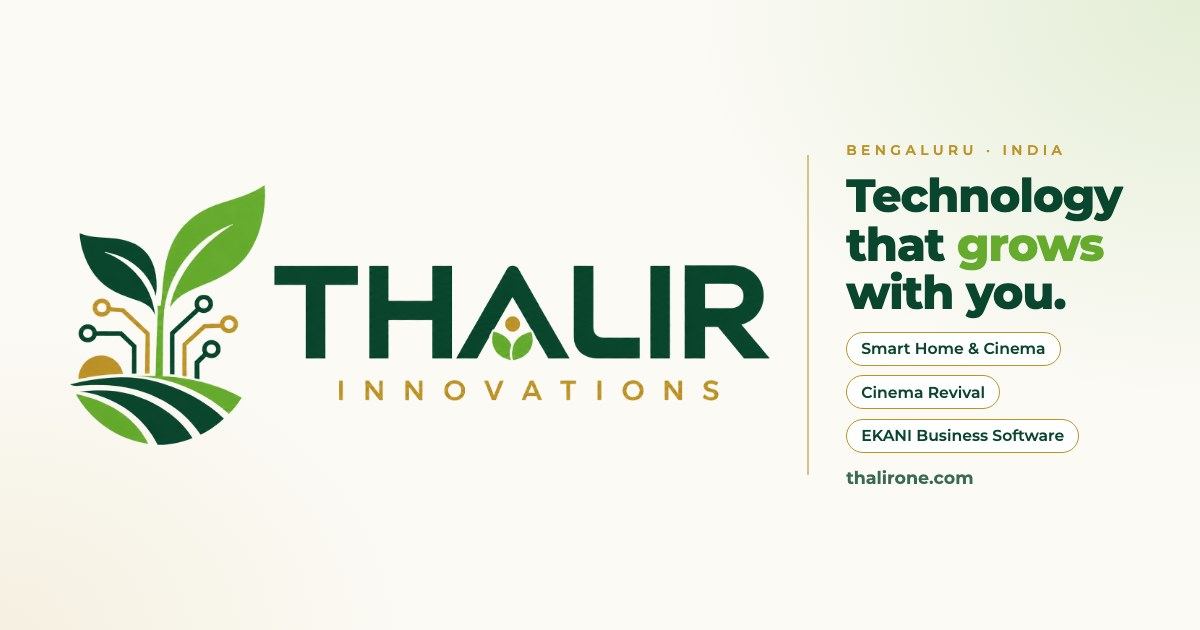
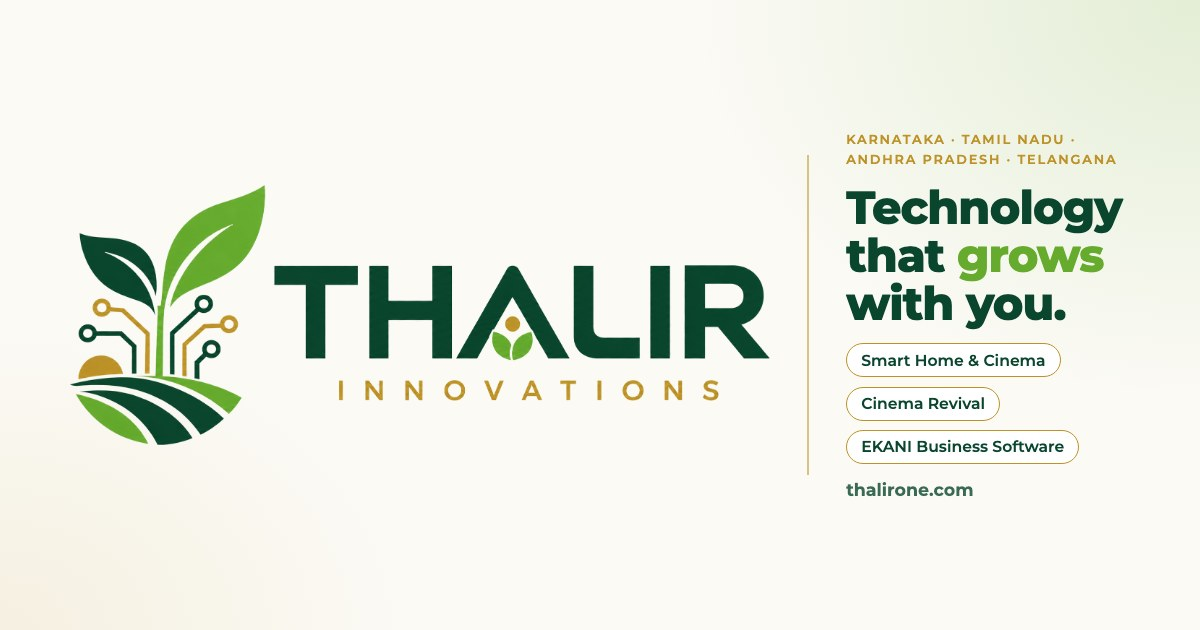
Service area: Karnataka, Tamil Nadu, Andhra Pradesh, Telangana

Changed region(s): [[0.6783, 0.2111, 0.9558, 0.7841]]

diff --git a/docs/cinema-revival/index.html b/docs/cinema-revival/index.html
@@ -3,13 +3,13 @@
 <head>
 <meta charset="utf-8">
 <meta name="viewport" content="width=device-width, initial-scale=1">
-<title>Home Cinema Revival in Bengaluru · Thalir Innovations</title>
-<meta name="description" content="Home Cinema Revival for existing home theatres in Bengaluru: consultation, theatre enhancement, advanced calibration, and help with unwanted smells and eye irritation in the room. Book on WhatsApp.">
+<title>Home Cinema Revival in Karnataka, Tamil Nadu, Andhra Pradesh &amp; Telangana · Thalir Innovations</title>
+<meta name="description" content="Home Cinema Revival for existing home theatres across Karnataka, Tamil Nadu, Andhra Pradesh and Telangana: consultation, theatre enhancement, advanced calibration, and help with unwanted smells and eye irritation in the room. Book on WhatsApp.">
 <link rel="canonical" href="https://thalirone.com/cinema-revival/">
 <meta property="og:type" content="website">
 <meta property="og:site_name" content="Thalir Innovations">
-<meta property="og:title" content="Home Cinema Revival in Bengaluru · Thalir Innovations">
-<meta property="og:description" content="Home Cinema Revival for existing home theatres in Bengaluru: consultation, theatre enhancement, advanced calibration, and help with unwanted smells and eye irritation in the room. Book on WhatsApp.">
+<meta property="og:title" content="Home Cinema Revival in Karnataka, Tamil Nadu, Andhra Pradesh &amp; Telangana · Thalir Innovations">
+<meta property="og:description" content="Home Cinema Revival for existing home theatres across Karnataka, Tamil Nadu, Andhra Pradesh and Telangana: consultation, theatre enhancement, advanced calibration, and help with unwanted smells and eye irritation in the room. Book on WhatsApp.">
 <meta property="og:url" content="https://thalirone.com/cinema-revival/">
 <meta property="og:image" content="https://thalirone.com/assets/img/og.jpg">
 <meta name="twitter:card" content="summary_large_image">
@@ -20,8 +20,8 @@
 <link rel="preconnect" href="https://fonts.googleapis.com">
 <link rel="preconnect" href="https://fonts.gstatic.com" crossorigin>
 <link rel="stylesheet" href="https://fonts.googleapis.com/css2?family=Montserrat:wght@600;700;800&family=Nunito+Sans:opsz,wght@6..12,400;6..12,600;6..12,700&display=swap">
-<link rel="stylesheet" href="/assets/styles.css?v=muf0lbub">
-<script type="application/ld+json">{"@context":"https://schema.org","@type":"Organization","name":"Thalir Innovations","url":"https://thalirone.com","logo":"https://thalirone.com/assets/img/icon-512.png","email":"hello@thalirone.com","contactPoint":[{"@type":"ContactPoint","telephone":"+91-95136-36657","contactType":"sales","areaServed":"IN"}],"address":{"@type":"PostalAddress","addressLocality":"Bengaluru","addressRegion":"Karnataka","addressCountry":"IN"},"sameAs":[]}</script>
+<link rel="stylesheet" href="/assets/styles.css?v=muf0wo4s">
+<script type="application/ld+json">{"@context":"https://schema.org","@type":"Organization","name":"Thalir Innovations","url":"https://thalirone.com","logo":"https://thalirone.com/assets/img/icon-512.png","email":"hello@thalirone.com","contactPoint":[{"@type":"ContactPoint","telephone":"+91-95136-36657","contactType":"sales","areaServed":"IN"}],"address":{"@type":"PostalAddress","addressLocality":"Bengaluru","addressRegion":"Karnataka","addressCountry":"IN"},"areaServed":[{"@type":"State","name":"Karnataka"},{"@type":"State","name":"Tamil Nadu"},{"@type":"State","name":"Andhra Pradesh"},{"@type":"State","name":"Telangana"}],"sameAs":[]}</script>
 </head>
 <body>
 <a class="skip" href="#main">Skip to content</a>
@@ -37,11 +37,11 @@
 <section class="hero page-hero">
   <div class="wrap">
     <div class="hero-copy">
-      <span class="eyebrow">Home Cinema Revival · Bengaluru</span>
+      <span class="eyebrow">Home Cinema Revival</span>
       <h1>Rediscover your home theatre.</h1>
       <p class="lede">Get more from the theatre you already own. We look at the sound, the picture, the controls and how comfortable the room is to sit in, then agree a practical plan to put it right.</p>
       <div class="btns"><a class="btn " href="https://wa.me/919513636657?text=Hi%20Thalir%20Innovations!%20I'd%20like%20a%20Home%20Cinema%20Revival%20consultation.%0AMy%20location%3A%20%0AWhat%20I%20want%20to%20improve%20(sound%20%2F%20picture%20%2F%20controls%20%2F%20room%20comfort)%3A%20" target="_blank" rel="noopener"><svg class="wa" viewBox="0 0 24 24" aria-hidden="true"><path d="M12 2.6a9.4 9.4 0 0 0-8.1 14.2L2.6 21.4l4.7-1.2A9.4 9.4 0 1 0 12 2.6Z" fill="none" stroke="currentColor" stroke-width="1.8" stroke-linejoin="round"/><path d="M8.7 7.7c.3-.6.6-.6.9-.6h.6c.2 0 .4.1.5.4l.8 1.9c.1.2 0 .5-.1.7l-.6.7c-.1.2-.1.4 0 .6.6 1.1 1.5 2 2.6 2.6.2.1.4.1.6 0l.7-.6c.2-.2.5-.2.7-.1l1.9.8c.3.1.4.3.4.5v.6c0 .3 0 .6-.6.9-.6.3-1.9.6-3.6-.2-1.6-.8-3.1-2.3-3.9-3.9-.8-1.7-.5-3-.2-3.6Z" fill="currentColor"/></svg><span>Book a revival consultation</span></a></div>
-      <p class="contact-line"><span>WhatsApp <b>+91 95136 36657</b></span><span>Mon–Sat, 10 am – 7 pm</span></p>
+      <p class="contact-line"><span>WhatsApp <b>+91 95136 36657</b></span><span>Mon–Sat, 10 am – 7 pm</span><span>Serving Karnataka, Tamil Nadu, Andhra Pradesh and Telangana</span></p>
     </div>
     <div class="hero-art"><div class="plate a" style="width:100%"><div class="sheet" role="img" aria-label="Example Cinema Revival checklist: dialogue, bass, picture, controls, room comfort and equipment">
   <div class="sheet-head"><span class="flow-k">Revival checklist</span><span class="sheet-no">Example</span></div>
@@ -60,7 +60,7 @@
 </div></section>
 <section class="band" aria-labelledby="faq-h"><div class="wrap">
   <div class="sec-head"><span class="eyebrow">Questions</span><h2 id="faq-h">What people ask us</h2></div>
-  <div class="faq"><details><summary>Do you only work on theatres you installed?</summary><p>No. Cinema Revival is for any existing home theatre. Tell us what equipment you have and we'll discuss what's possible.</p></details><details><summary>What does advanced calibration include?</summary><p>It's scoped to your system. Share your receiver or processor model, speaker setup and display, and we'll explain the calibration that suits it.</p></details><details><summary>Can you help with smells and eye irritation?</summary><p>We look for causes within the theatre room itself and discuss the work needed to put them right. We don't diagnose health conditions; if irritation continues, please see a doctor.</p></details><details><summary>Do you visit outside Bengaluru?</summary><p>Yes, by prior confirmation. Visit and travel charges depend on the location and are agreed with you before anything is scheduled.</p></details><details><summary>How much does it cost?</summary><p>It depends on the room and the work involved. We agree the scope and charges with you before any visit is booked.</p></details></div>
+  <div class="faq"><details><summary>Do you only work on theatres you installed?</summary><p>No. Cinema Revival is for any existing home theatre. Tell us what equipment you have and we'll discuss what's possible.</p></details><details><summary>What does advanced calibration include?</summary><p>It's scoped to your system. Share your receiver or processor model, speaker setup and display, and we'll explain the calibration that suits it.</p></details><details><summary>Can you help with smells and eye irritation?</summary><p>We look for causes within the theatre room itself and discuss the work needed to put them right. We don't diagnose health conditions; if irritation continues, please see a doctor.</p></details><details><summary>Which areas do you cover?</summary><p>Karnataka, Tamil Nadu, Andhra Pradesh and Telangana. We're based in Bengaluru; for visits outside Bengaluru, travel charges depend on the location and are agreed with you before anything is scheduled.</p></details><details><summary>How much does it cost?</summary><p>It depends on the room and the work involved. We agree the scope and charges with you before any visit is booked.</p></details></div>
 </div></section><section class="reach band" id="contact" aria-labelledby="reach-h">
   <div class="wrap">
     <div class="copy">
@@ -71,13 +71,14 @@
         <dt>WhatsApp</dt><dd><a href="https://wa.me/919513636657?text=Hi%20Thalir%20Innovations!%20I%20have%20an%20enquiry." target="_blank" rel="noopener">+91 95136 36657</a></dd>
         <dt>Email</dt><dd><a href="mailto:hello@thalirone.com">hello@thalirone.com</a></dd>
         <dt>Hours</dt><dd>Mon–Sat, 10 am – 7 pm</dd>
+        <dt>We cover</dt><dd>Karnataka, Tamil Nadu, Andhra Pradesh, Telangana</dd>
         <dt>Based in</dt><dd>Bengaluru, Karnataka</dd>
       </dl>
     </div>
     <form class="composer" id="composer" data-wa="919513636657" novalidate>
   <div class="row">
     <label for="c-name">Your name<input id="c-name" name="name" autocomplete="name" required></label>
-    <label for="c-area">Area / city<input id="c-area" name="area" autocomplete="address-level2" placeholder="e.g. Whitefield, Bengaluru"></label>
+    <label for="c-area">Area / city<input id="c-area" name="area" autocomplete="address-level2" placeholder="e.g. Whitefield, Bengaluru or Coimbatore"></label>
   </div>
   <label for="c-topic">I'm interested in<select id="c-topic" name="topic"><option value="Smart Home &amp; Cinema">Smart Home &amp; Cinema</option><option value="Cinema Revival" selected>Cinema Revival</option><option value="Business Software">Business Software</option><option value="Something else">Something else</option></select></label>
   <label for="c-msg">Tell us a little<textarea id="c-msg" name="msg" placeholder="e.g. 12×16 ft theatre, 5.1 system, dialogue is hard to hear"></textarea></label>
@@ -92,7 +93,7 @@
     <div class="cols">
       <div style="display:grid;gap:14px;align-content:start">
         <img src="/assets/img/logo.png" alt="Thalir Innovations" width="409" height="54" loading="lazy">
-        <p class="muted">Technology that grows with you. Bengaluru, India.</p>
+        <p class="muted">Technology that grows with you. Based in Bengaluru, serving Karnataka, Tamil Nadu, Andhra Pradesh and Telangana.</p>
       </div>
       <div><h3>What we do</h3><ul><li><a href="/smart-home-cinema/">Smart Home &amp; Cinema</a></li><li><a href="/cinema-revival/">Cinema Revival</a></li><li><a href="/business-software/">Business Software</a></li><li><a href="/contact/">Contact</a></li></ul></div>
       <div><h3>Talk to us</h3><ul>
@@ -105,6 +106,6 @@
     <div class="legal"><span>© 2026 Thalir Innovations · Bengaluru</span><a href="/privacy/">Privacy</a></div>
   </div>
 </footer>
-<script src="/assets/main.js?v=muf0lbub" defer></script>
+<script src="/assets/main.js?v=muf0wo4s" defer></script>
 </body>
 </html>

diff --git a/docs/smart-home-cinema/index.html b/docs/smart-home-cinema/index.html
@@ -3,13 +3,13 @@
 <head>
 <meta charset="utf-8">
 <meta name="viewport" content="width=device-width, initial-scale=1">
-<title>Smart Home &amp; Cinema in Bengaluru · Thalir Innovations</title>
-<meta name="description" content="KNX smart home design and programming in Bengaluru: lighting, air-conditioning, curtains and scenes, plus home cinemas measured and calibrated with REW. Request a site survey.">
+<title>Smart Home &amp; Cinema in Karnataka, Tamil Nadu, Andhra Pradesh &amp; Telangana · Thalir Innovations</title>
+<meta name="description" content="KNX smart home design and programming across Karnataka, Tamil Nadu, Andhra Pradesh and Telangana: lighting, air-conditioning, curtains and scenes, plus home cinemas measured and calibrated with REW. Request a site survey.">
 <link rel="canonical" href="https://thalirone.com/smart-home-cinema/">
 <meta property="og:type" content="website">
 <meta property="og:site_name" content="Thalir Innovations">
-<meta property="og:title" content="Smart Home &amp; Cinema in Bengaluru · Thalir Innovations">
-<meta property="og:description" content="KNX smart home design and programming in Bengaluru: lighting, air-conditioning, curtains and scenes, plus home cinemas measured and calibrated with REW. Request a site survey.">
+<meta property="og:title" content="Smart Home &amp; Cinema in Karnataka, Tamil Nadu, Andhra Pradesh &amp; Telangana · Thalir Innovations">
+<meta property="og:description" content="KNX smart home design and programming across Karnataka, Tamil Nadu, Andhra Pradesh and Telangana: lighting, air-conditioning, curtains and scenes, plus home cinemas measured and calibrated with REW. Request a site survey.">
 <meta property="og:url" content="https://thalirone.com/smart-home-cinema/">
 <meta property="og:image" content="https://thalirone.com/assets/img/og.jpg">
 <meta name="twitter:card" content="summary_large_image">
@@ -20,8 +20,8 @@
 <link rel="preconnect" href="https://fonts.googleapis.com">
 <link rel="preconnect" href="https://fonts.gstatic.com" crossorigin>
 <link rel="stylesheet" href="https://fonts.googleapis.com/css2?family=Montserrat:wght@600;700;800&family=Nunito+Sans:opsz,wght@6..12,400;6..12,600;6..12,700&display=swap">
-<link rel="stylesheet" href="/assets/styles.css?v=muf0lbub">
-<script type="application/ld+json">{"@context":"https://schema.org","@type":"Organization","name":"Thalir Innovations","url":"https://thalirone.com","logo":"https://thalirone.com/assets/img/icon-512.png","email":"hello@thalirone.com","contactPoint":[{"@type":"ContactPoint","telephone":"+91-95136-36657","contactType":"sales","areaServed":"IN"}],"address":{"@type":"PostalAddress","addressLocality":"Bengaluru","addressRegion":"Karnataka","addressCountry":"IN"},"sameAs":[]}</script>
+<link rel="stylesheet" href="/assets/styles.css?v=muf0wo4s">
+<script type="application/ld+json">{"@context":"https://schema.org","@type":"Organization","name":"Thalir Innovations","url":"https://thalirone.com","logo":"https://thalirone.com/assets/img/icon-512.png","email":"hello@thalirone.com","contactPoint":[{"@type":"ContactPoint","telephone":"+91-95136-36657","contactType":"sales","areaServed":"IN"}],"address":{"@type":"PostalAddress","addressLocality":"Bengaluru","addressRegion":"Karnataka","addressCountry":"IN"},"areaServed":[{"@type":"State","name":"Karnataka"},{"@type":"State","name":"Tamil Nadu"},{"@type":"State","name":"Andhra Pradesh"},{"@type":"State","name":"Telangana"}],"sameAs":[]}</script>
 </head>
 <body>
 <a class="skip" href="#main">Skip to content</a>
@@ -37,11 +37,11 @@
 <section class="hero page-hero">
   <div class="wrap">
     <div class="hero-copy">
-      <span class="eyebrow">Smart Home &amp; Cinema · Bengaluru</span>
+      <span class="eyebrow">Smart Home &amp; Cinema</span>
       <h1>A home that answers to you.</h1>
       <p class="lede">We design, install and program smart homes on KNX: lighting, air-conditioning, curtains and scenes that work from the wall, your phone or a single touch. And we build home cinemas that are measured and calibrated for the room they sit in.</p>
       <div class="btns"><a class="btn " href="https://wa.me/919513636657?text=Hi%20Thalir%20Innovations!%20I'd%20like%20a%20smart%20home%20site%20survey.%0AMy%20area%3A%20%0AHome%20type%20(villa%20%2F%20apartment)%3A%20%0AWhat%20I'd%20like%20to%20automate%3A%20" target="_blank" rel="noopener"><svg class="wa" viewBox="0 0 24 24" aria-hidden="true"><path d="M12 2.6a9.4 9.4 0 0 0-8.1 14.2L2.6 21.4l4.7-1.2A9.4 9.4 0 1 0 12 2.6Z" fill="none" stroke="currentColor" stroke-width="1.8" stroke-linejoin="round"/><path d="M8.7 7.7c.3-.6.6-.6.9-.6h.6c.2 0 .4.1.5.4l.8 1.9c.1.2 0 .5-.1.7l-.6.7c-.1.2-.1.4 0 .6.6 1.1 1.5 2 2.6 2.6.2.1.4.1.6 0l.7-.6c.2-.2.5-.2.7-.1l1.9.8c.3.1.4.3.4.5v.6c0 .3 0 .6-.6.9-.6.3-1.9.6-3.6-.2-1.6-.8-3.1-2.3-3.9-3.9-.8-1.7-.5-3-.2-3.6Z" fill="currentColor"/></svg><span>Request a site survey</span></a></div>
-      <p class="contact-line"><span>WhatsApp <b>+91 95136 36657</b></span><span>Mon–Sat, 10 am – 7 pm</span></p>
+      <p class="contact-line"><span>WhatsApp <b>+91 95136 36657</b></span><span>Mon–Sat, 10 am – 7 pm</span><span>Serving Karnataka, Tamil Nadu, Andhra Pradesh and Telangana</span></p>
     </div>
     <div class="hero-art"><div class="plate a" style="width:100%"><svg class="illo" viewBox="0 0 560 380" role="img" aria-label="Example floor plan with KNX devices and group addresses" xmlns="http://www.w3.org/2000/svg">
   <title>Example floor plan with KNX devices and group addresses</title>
@@ -173,7 +173,7 @@
 </div></section>
 <section class="band" aria-labelledby="faq-h"><div class="wrap">
   <div class="sec-head"><span class="eyebrow">Questions</span><h2 id="faq-h">What people ask us</h2></div>
-  <div class="faq"><details><summary>Do you work on existing homes, or only new builds?</summary><p>Both. KNX is easiest to plan during construction or a renovation. For a finished home, we check the wiring on the site survey and tell you honestly what's practical.</p></details><details><summary>Which areas do you serve?</summary><p>Bengaluru. Projects outside Bengaluru are possible on request.</p></details><details><summary>How much does a smart home cost?</summary><p>It depends on the number of rooms, the devices and the brands you choose. After the site survey you get a written quote with every item listed.</p></details><details><summary>Can I control it from my phone?</summary><p>Yes. Along with wall keypads we set up phone control and secure remote access. Everyday switching keeps working locally even when the internet is down.</p></details></div>
+  <div class="faq"><details><summary>Do you work on existing homes, or only new builds?</summary><p>Both. KNX is easiest to plan during construction or a renovation. For a finished home, we check the wiring on the site survey and tell you honestly what's practical.</p></details><details><summary>Which areas do you serve?</summary><p>Karnataka, Tamil Nadu, Andhra Pradesh and Telangana. We're based in Bengaluru; for sites outside Bengaluru, any travel charges are agreed with you before the visit.</p></details><details><summary>How much does a smart home cost?</summary><p>It depends on the number of rooms, the devices and the brands you choose. After the site survey you get a written quote with every item listed.</p></details><details><summary>Can I control it from my phone?</summary><p>Yes. Along with wall keypads we set up phone control and secure remote access. Everyday switching keeps working locally even when the internet is down.</p></details></div>
 </div></section><section class="reach band" id="contact" aria-labelledby="reach-h">
   <div class="wrap">
     <div class="copy">
@@ -184,13 +184,14 @@
         <dt>WhatsApp</dt><dd><a href="https://wa.me/919513636657?text=Hi%20Thalir%20Innovations!%20I%20have%20an%20enquiry." target="_blank" rel="noopener">+91 95136 36657</a></dd>
         <dt>Email</dt><dd><a href="mailto:hello@thalirone.com">hello@thalirone.com</a></dd>
         <dt>Hours</dt><dd>Mon–Sat, 10 am – 7 pm</dd>
+        <dt>We cover</dt><dd>Karnataka, Tamil Nadu, Andhra Pradesh, Telangana</dd>
         <dt>Based in</dt><dd>Bengaluru, Karnataka</dd>
       </dl>
     </div>
     <form class="composer" id="composer" data-wa="919513636657" novalidate>
   <div class="row">
     <label for="c-name">Your name<input id="c-name" name="name" autocomplete="name" required></label>
-    <label for="c-area">Area / city<input id="c-area" name="area" autocomplete="address-level2" placeholder="e.g. Whitefield, Bengaluru"></label>
+    <label for="c-area">Area / city<input id="c-area" name="area" autocomplete="address-level2" placeholder="e.g. Whitefield, Bengaluru or Coimbatore"></label>
   </div>
   <label for="c-topic">I'm interested in<select id="c-topic" name="topic"><option value="Smart Home &amp; Cinema" selected>Smart Home &amp; Cinema</option><option value="Cinema Revival">Cinema Revival</option><option value="Business Software">Business Software</option><option value="Something else">Something else</option></select></label>
   <label for="c-msg">Tell us a little<textarea id="c-msg" name="msg" placeholder="e.g. 4-bedroom villa, new build, lights + AC + curtains"></textarea></label>
@@ -205,7 +206,7 @@
     <div class="cols">
       <div style="display:grid;gap:14px;align-content:start">
         <img src="/assets/img/logo.png" alt="Thalir Innovations" width="409" height="54" loading="lazy">
-        <p class="muted">Technology that grows with you. Bengaluru, India.</p>
+        <p class="muted">Technology that grows with you. Based in Bengaluru, serving Karnataka, Tamil Nadu, Andhra Pradesh and Telangana.</p>
       </div>
       <div><h3>What we do</h3><ul><li><a href="/smart-home-cinema/">Smart Home &amp; Cinema</a></li><li><a href="/cinema-revival/">Cinema Revival</a></li><li><a href="/business-software/">Business Software</a></li><li><a href="/contact/">Contact</a></li></ul></div>
       <div><h3>Talk to us</h3><ul>
@@ -218,6 +219,6 @@
     <div class="legal"><span>© 2026 Thalir Innovations · Bengaluru</span><a href="/privacy/">Privacy</a></div>
   </div>
 </footer>
-<script src="/assets/main.js?v=muf0lbub" defer></script>
+<script src="/assets/main.js?v=muf0wo4s" defer></script>
 </body>
 </html>

diff --git a/docs/index.html b/docs/index.html
@@ -3,13 +3,13 @@
 <head>
 <meta charset="utf-8">
 <meta name="viewport" content="width=device-width, initial-scale=1">
-<title>Thalir Innovations: smart homes, home cinema &amp; EKANI CRM · Bengaluru</title>
-<meta name="description" content="Thalir Innovations designs smart homes and home cinemas in Bengaluru, revives existing home theatres, and builds EKANI, the WhatsApp-first CRM for Indian businesses.">
+<title>Thalir Innovations: smart homes, home cinema &amp; EKANI CRM · Karnataka, Tamil Nadu, AP &amp; Telangana</title>
+<meta name="description" content="Thalir Innovations designs smart homes and home cinemas and revives existing home theatres across Karnataka, Tamil Nadu, Andhra Pradesh and Telangana, and builds EKANI, the WhatsApp-first CRM for Indian businesses.">
 <link rel="canonical" href="https://thalirone.com/">
 <meta property="og:type" content="website">
 <meta property="og:site_name" content="Thalir Innovations">
-<meta property="og:title" content="Thalir Innovations: smart homes, home cinema &amp; EKANI CRM · Bengaluru">
-<meta property="og:description" content="Thalir Innovations designs smart homes and home cinemas in Bengaluru, revives existing home theatres, and builds EKANI, the WhatsApp-first CRM for Indian businesses.">
+<meta property="og:title" content="Thalir Innovations: smart homes, home cinema &amp; EKANI CRM · Karnataka, Tamil Nadu, AP &amp; Telangana">
+<meta property="og:description" content="Thalir Innovations designs smart homes and home cinemas and revives existing home theatres across Karnataka, Tamil Nadu, Andhra Pradesh and Telangana, and builds EKANI, the WhatsApp-first CRM for Indian businesses.">
 <meta property="og:url" content="https://thalirone.com/">
 <meta property="og:image" content="https://thalirone.com/assets/img/og.jpg">
 <meta name="twitter:card" content="summary_large_image">
@@ -20,8 +20,8 @@
 <link rel="preconnect" href="https://fonts.googleapis.com">
 <link rel="preconnect" href="https://fonts.gstatic.com" crossorigin>
 <link rel="stylesheet" href="https://fonts.googleapis.com/css2?family=Montserrat:wght@600;700;800&family=Nunito+Sans:opsz,wght@6..12,400;6..12,600;6..12,700&display=swap">
-<link rel="stylesheet" href="/assets/styles.css?v=muf0lbub">
-<script type="application/ld+json">{"@context":"https://schema.org","@type":"Organization","name":"Thalir Innovations","url":"https://thalirone.com","logo":"https://thalirone.com/assets/img/icon-512.png","email":"hello@thalirone.com","contactPoint":[{"@type":"ContactPoint","telephone":"+91-95136-36657","contactType":"sales","areaServed":"IN"}],"address":{"@type":"PostalAddress","addressLocality":"Bengaluru","addressRegion":"Karnataka","addressCountry":"IN"},"sameAs":[]}</script>
+<link rel="stylesheet" href="/assets/styles.css?v=muf0wo4s">
+<script type="application/ld+json">{"@context":"https://schema.org","@type":"Organization","name":"Thalir Innovations","url":"https://thalirone.com","logo":"https://thalirone.com/assets/img/icon-512.png","email":"hello@thalirone.com","contactPoint":[{"@type":"ContactPoint","telephone":"+91-95136-36657","contactType":"sales","areaServed":"IN"}],"address":{"@type":"PostalAddress","addressLocality":"Bengaluru","addressRegion":"Karnataka","addressCountry":"IN"},"areaServed":[{"@type":"State","name":"Karnataka"},{"@type":"State","name":"Tamil Nadu"},{"@type":"State","name":"Andhra Pradesh"},{"@type":"State","name":"Telangana"}],"sameAs":[]}</script>
 </head>
 <body>
 <a class="skip" href="#main">Skip to content</a>
@@ -37,7 +37,7 @@
 <section class="hero">
   <div class="wrap">
     <div class="hero-copy">
-      <span class="eyebrow">Bengaluru · India</span>
+      <span class="eyebrow">Karnataka · Tamil Nadu · Andhra Pradesh · Telangana</span>
       <h1>Technology that grows with you.</h1>
       <p class="lede">We design smart homes and home cinemas, bring existing home theatres back to their best, and build EKANI, the WhatsApp-first CRM for Indian businesses. One team, engineering for your home and your business.</p>
       <div class="btns"><a class="btn " href="https://wa.me/919513636657?text=Hi%20Thalir%20Innovations!%20I'd%20like%20a%20smart%20home%20site%20survey.%0AMy%20area%3A%20%0AHome%20type%20(villa%20%2F%20apartment)%3A%20%0AWhat%20I'd%20like%20to%20automate%3A%20" target="_blank" rel="noopener"><svg class="wa" viewBox="0 0 24 24" aria-hidden="true"><path d="M12 2.6a9.4 9.4 0 0 0-8.1 14.2L2.6 21.4l4.7-1.2A9.4 9.4 0 1 0 12 2.6Z" fill="none" stroke="currentColor" stroke-width="1.8" stroke-linejoin="round"/><path d="M8.7 7.7c.3-.6.6-.6.9-.6h.6c.2 0 .4.1.5.4l.8 1.9c.1.2 0 .5-.1.7l-.6.7c-.1.2-.1.4 0 .6.6 1.1 1.5 2 2.6 2.6.2.1.4.1.6 0l.7-.6c.2-.2.5-.2.7-.1l1.9.8c.3.1.4.3.4.5v.6c0 .3 0 .6-.6.9-.6.3-1.9.6-3.6-.2-1.6-.8-3.1-2.3-3.9-3.9-.8-1.7-.5-3-.2-3.6Z" fill="currentColor"/></svg><span>Request a site survey</span></a><a class="btn ghost" href="https://wa.me/919513636657?text=Hi%20Thalir%20Innovations!%20I'd%20like%20a%20demo%20of%20EKANI%20CRM.%0AMy%20business%3A%20%0ATeam%20size%3A%20" target="_blank" rel="noopener"><svg class="wa" viewBox="0 0 24 24" aria-hidden="true"><path d="M12 2.6a9.4 9.4 0 0 0-8.1 14.2L2.6 21.4l4.7-1.2A9.4 9.4 0 1 0 12 2.6Z" fill="none" stroke="currentColor" stroke-width="1.8" stroke-linejoin="round"/><path d="M8.7 7.7c.3-.6.6-.6.9-.6h.6c.2 0 .4.1.5.4l.8 1.9c.1.2 0 .5-.1.7l-.6.7c-.1.2-.1.4 0 .6.6 1.1 1.5 2 2.6 2.6.2.1.4.1.6 0l.7-.6c.2-.2.5-.2.7-.1l1.9.8c.3.1.4.3.4.5v.6c0 .3 0 .6-.6.9-.6.3-1.9.6-3.6-.2-1.6-.8-3.1-2.3-3.9-3.9-.8-1.7-.5-3-.2-3.6Z" fill="currentColor"/></svg><span>Get an EKANI demo</span></a></div>
@@ -212,13 +212,14 @@
         <dt>WhatsApp</dt><dd><a href="https://wa.me/919513636657?text=Hi%20Thalir%20Innovations!%20I%20have%20an%20enquiry." target="_blank" rel="noopener">+91 95136 36657</a></dd>
         <dt>Email</dt><dd><a href="mailto:hello@thalirone.com">hello@thalirone.com</a></dd>
         <dt>Hours</dt><dd>Mon–Sat, 10 am – 7 pm</dd>
+        <dt>We cover</dt><dd>Karnataka, Tamil Nadu, Andhra Pradesh, Telangana</dd>
         <dt>Based in</dt><dd>Bengaluru, Karnataka</dd>
       </dl>
     </div>
     <form class="composer" id="composer" data-wa="919513636657" novalidate>
   <div class="row">
     <label for="c-name">Your name<input id="c-name" name="name" autocomplete="name" required></label>
-    <label for="c-area">Area / city<input id="c-area" name="area" autocomplete="address-level2" placeholder="e.g. Whitefield, Bengaluru"></label>
+    <label for="c-area">Area / city<input id="c-area" name="area" autocomplete="address-level2" placeholder="e.g. Whitefield, Bengaluru or Coimbatore"></label>
   </div>
   <label for="c-topic">I'm interested in<select id="c-topic" name="topic"><option value="Smart Home &amp; Cinema">Smart Home &amp; Cinema</option><option value="Cinema Revival">Cinema Revival</option><option value="Business Software">Business Software</option><option value="Something else">Something else</option></select></label>
   <label for="c-msg">Tell us a little<textarea id="c-msg" name="msg" placeholder="e.g. 4-bedroom villa, new build, lights + AC + curtains"></textarea></label>
@@ -233,7 +234,7 @@
     <div class="cols">
       <div style="display:grid;gap:14px;align-content:start">
         <img src="/assets/img/logo.png" alt="Thalir Innovations" width="409" height="54" loading="lazy">
-        <p class="muted">Technology that grows with you. Bengaluru, India.</p>
+        <p class="muted">Technology that grows with you. Based in Bengaluru, serving Karnataka, Tamil Nadu, Andhra Pradesh and Telangana.</p>
       </div>
       <div><h3>What we do</h3><ul><li><a href="/smart-home-cinema/">Smart Home &amp; Cinema</a></li><li><a href="/cinema-revival/">Cinema Revival</a></li><li><a href="/business-software/">Business Software</a></li><li><a href="/contact/">Contact</a></li></ul></div>
       <div><h3>Talk to us</h3><ul>
@@ -246,6 +247,6 @@
     <div class="legal"><span>© 2026 Thalir Innovations · Bengaluru</span><a href="/privacy/">Privacy</a></div>
   </div>
 </footer>
-<script src="/assets/main.js?v=muf0lbub" defer></script>
+<script src="/assets/main.js?v=muf0wo4s" defer></script>
 </body>
 </html>

diff --git a/docs/business-software/index.html b/docs/business-software/index.html
@@ -20,8 +20,8 @@
 <link rel="preconnect" href="https://fonts.googleapis.com">
 <link rel="preconnect" href="https://fonts.gstatic.com" crossorigin>
 <link rel="stylesheet" href="https://fonts.googleapis.com/css2?family=Montserrat:wght@600;700;800&family=Nunito+Sans:opsz,wght@6..12,400;6..12,600;6..12,700&display=swap">
-<link rel="stylesheet" href="/assets/styles.css?v=muf0lbub">
-<script type="application/ld+json">{"@context":"https://schema.org","@type":"Organization","name":"Thalir Innovations","url":"https://thalirone.com","logo":"https://thalirone.com/assets/img/icon-512.png","email":"hello@thalirone.com","contactPoint":[{"@type":"ContactPoint","telephone":"+91-95136-36657","contactType":"sales","areaServed":"IN"}],"address":{"@type":"PostalAddress","addressLocality":"Bengaluru","addressRegion":"Karnataka","addressCountry":"IN"},"sameAs":[]}</script>
+<link rel="stylesheet" href="/assets/styles.css?v=muf0wo4s">
+<script type="application/ld+json">{"@context":"https://schema.org","@type":"Organization","name":"Thalir Innovations","url":"https://thalirone.com","logo":"https://thalirone.com/assets/img/icon-512.png","email":"hello@thalirone.com","contactPoint":[{"@type":"ContactPoint","telephone":"+91-95136-36657","contactType":"sales","areaServed":"IN"}],"address":{"@type":"PostalAddress","addressLocality":"Bengaluru","addressRegion":"Karnataka","addressCountry":"IN"},"areaServed":[{"@type":"State","name":"Karnataka"},{"@type":"State","name":"Tamil Nadu"},{"@type":"State","name":"Andhra Pradesh"},{"@type":"State","name":"Telangana"}],"sameAs":[]}</script>
 </head>
 <body>
 <a class="skip" href="#main">Skip to content</a>
@@ -79,13 +79,14 @@
         <dt>WhatsApp</dt><dd><a href="https://wa.me/919513636657?text=Hi%20Thalir%20Innovations!%20I%20have%20an%20enquiry." target="_blank" rel="noopener">+91 95136 36657</a></dd>
         <dt>Email</dt><dd><a href="mailto:hello@thalirone.com">hello@thalirone.com</a></dd>
         <dt>Hours</dt><dd>Mon–Sat, 10 am – 7 pm</dd>
+        <dt>We cover</dt><dd>Karnataka, Tamil Nadu, Andhra Pradesh, Telangana</dd>
         <dt>Based in</dt><dd>Bengaluru, Karnataka</dd>
       </dl>
     </div>
     <form class="composer" id="composer" data-wa="919513636657" novalidate>
   <div class="row">
     <label for="c-name">Your name<input id="c-name" name="name" autocomplete="name" required></label>
-    <label for="c-area">Area / city<input id="c-area" name="area" autocomplete="address-level2" placeholder="e.g. Whitefield, Bengaluru"></label>
+    <label for="c-area">Area / city<input id="c-area" name="area" autocomplete="address-level2" placeholder="e.g. Whitefield, Bengaluru or Coimbatore"></label>
   </div>
   <label for="c-topic">I'm interested in<select id="c-topic" name="topic"><option value="Smart Home &amp; Cinema">Smart Home &amp; Cinema</option><option value="Cinema Revival">Cinema Revival</option><option value="Business Software" selected>Business Software</option><option value="Something else">Something else</option></select></label>
   <label for="c-msg">Tell us a little<textarea id="c-msg" name="msg" placeholder="e.g. interior firm, 6 people, leads come on WhatsApp"></textarea></label>
@@ -100,7 +101,7 @@
     <div class="cols">
       <div style="display:grid;gap:14px;align-content:start">
         <img src="/assets/img/logo.png" alt="Thalir Innovations" width="409" height="54" loading="lazy">
-        <p class="muted">Technology that grows with you. Bengaluru, India.</p>
+        <p class="muted">Technology that grows with you. Based in Bengaluru, serving Karnataka, Tamil Nadu, Andhra Pradesh and Telangana.</p>
       </div>
       <div><h3>What we do</h3><ul><li><a href="/smart-home-cinema/">Smart Home &amp; Cinema</a></li><li><a href="/cinema-revival/">Cinema Revival</a></li><li><a href="/business-software/">Business Software</a></li><li><a href="/contact/">Contact</a></li></ul></div>
       <div><h3>Talk to us</h3><ul>
@@ -113,6 +114,6 @@
     <div class="legal"><span>© 2026 Thalir Innovations · Bengaluru</span><a href="/privacy/">Privacy</a></div>
   </div>
 </footer>
-<script src="/assets/main.js?v=muf0lbub" defer></script>
+<script src="/assets/main.js?v=muf0wo4s" defer></script>
 </body>
 </html>

diff --git a/docs/404.html b/docs/404.html
@@ -4,12 +4,12 @@
 <meta charset="utf-8">
 <meta name="viewport" content="width=device-width, initial-scale=1">
 <title>Page not found · Thalir Innovations</title>
-<meta name="description" content="Thalir Innovations designs smart homes and home cinemas in Bengaluru, revives existing home theatres, and builds EKANI, the WhatsApp-first CRM for Indian businesses.">
+<meta name="description" content="Thalir Innovations designs smart homes and home cinemas and revives existing home theatres across Karnataka, Tamil Nadu, Andhra Pradesh and Telangana, and builds EKANI, the WhatsApp-first CRM for Indian businesses.">
 <link rel="canonical" href="https://thalirone.com/404.html">
 <meta property="og:type" content="website">
 <meta property="og:site_name" content="Thalir Innovations">
 <meta property="og:title" content="Page not found · Thalir Innovations">
-<meta property="og:description" content="Thalir Innovations designs smart homes and home cinemas in Bengaluru, revives existing home theatres, and builds EKANI, the WhatsApp-first CRM for Indian businesses.">
+<meta property="og:description" content="Thalir Innovations designs smart homes and home cinemas and revives existing home theatres across Karnataka, Tamil Nadu, Andhra Pradesh and Telangana, and builds EKANI, the WhatsApp-first CRM for Indian businesses.">
 <meta property="og:url" content="https://thalirone.com/404.html">
 <meta property="og:image" content="https://thalirone.com/assets/img/og.jpg">
 <meta name="twitter:card" content="summary_large_image">
@@ -20,8 +20,8 @@
 <link rel="preconnect" href="https://fonts.googleapis.com">
 <link rel="preconnect" href="https://fonts.gstatic.com" crossorigin>
 <link rel="stylesheet" href="https://fonts.googleapis.com/css2?family=Montserrat:wght@600;700;800&family=Nunito+Sans:opsz,wght@6..12,400;6..12,600;6..12,700&display=swap">
-<link rel="stylesheet" href="/assets/styles.css?v=muf0lbub">
-<script type="application/ld+json">{"@context":"https://schema.org","@type":"Organization","name":"Thalir Innovations","url":"https://thalirone.com","logo":"https://thalirone.com/assets/img/icon-512.png","email":"hello@thalirone.com","contactPoint":[{"@type":"ContactPoint","telephone":"+91-95136-36657","contactType":"sales","areaServed":"IN"}],"address":{"@type":"PostalAddress","addressLocality":"Bengaluru","addressRegion":"Karnataka","addressCountry":"IN"},"sameAs":[]}</script>
+<link rel="stylesheet" href="/assets/styles.css?v=muf0wo4s">
+<script type="application/ld+json">{"@context":"https://schema.org","@type":"Organization","name":"Thalir Innovations","url":"https://thalirone.com","logo":"https://thalirone.com/assets/img/icon-512.png","email":"hello@thalirone.com","contactPoint":[{"@type":"ContactPoint","telephone":"+91-95136-36657","contactType":"sales","areaServed":"IN"}],"address":{"@type":"PostalAddress","addressLocality":"Bengaluru","addressRegion":"Karnataka","addressCountry":"IN"},"areaServed":[{"@type":"State","name":"Karnataka"},{"@type":"State","name":"Tamil Nadu"},{"@type":"State","name":"Andhra Pradesh"},{"@type":"State","name":"Telangana"}],"sameAs":[]}</script>
 </head>
 <body>
 <a class="skip" href="#main">Skip to content</a>
@@ -44,7 +44,7 @@
     <div class="cols">
       <div style="display:grid;gap:14px;align-content:start">
         <img src="/assets/img/logo.png" alt="Thalir Innovations" width="409" height="54" loading="lazy">
-        <p class="muted">Technology that grows with you. Bengaluru, India.</p>
+        <p class="muted">Technology that grows with you. Based in Bengaluru, serving Karnataka, Tamil Nadu, Andhra Pradesh and Telangana.</p>
       </div>
       <div><h3>What we do</h3><ul><li><a href="/smart-home-cinema/">Smart Home &amp; Cinema</a></li><li><a href="/cinema-revival/">Cinema Revival</a></li><li><a href="/business-software/">Business Software</a></li><li><a href="/contact/">Contact</a></li></ul></div>
       <div><h3>Talk to us</h3><ul>
@@ -57,6 +57,6 @@
     <div class="legal"><span>© 2026 Thalir Innovations · Bengaluru</span><a href="/privacy/">Privacy</a></div>
   </div>
 </footer>
-<script src="/assets/main.js?v=muf0lbub" defer></script>
+<script src="/assets/main.js?v=muf0wo4s" defer></script>
 </body>
 </html>

diff --git a/docs/contact/index.html b/docs/contact/index.html
@@ -20,8 +20,8 @@
 <link rel="preconnect" href="https://fonts.googleapis.com">
 <link rel="preconnect" href="https://fonts.gstatic.com" crossorigin>
 <link rel="stylesheet" href="https://fonts.googleapis.com/css2?family=Montserrat:wght@600;700;800&family=Nunito+Sans:opsz,wght@6..12,400;6..12,600;6..12,700&display=swap">
-<link rel="stylesheet" href="/assets/styles.css?v=muf0lbub">
-<script type="application/ld+json">{"@context":"https://schema.org","@type":"Organization","name":"Thalir Innovations","url":"https://thalirone.com","logo":"https://thalirone.com/assets/img/icon-512.png","email":"hello@thalirone.com","contactPoint":[{"@type":"ContactPoint","telephone":"+91-95136-36657","contactType":"sales","areaServed":"IN"}],"address":{"@type":"PostalAddress","addressLocality":"Bengaluru","addressRegion":"Karnataka","addressCountry":"IN"},"sameAs":[]}</script>
+<link rel="stylesheet" href="/assets/styles.css?v=muf0wo4s">
+<script type="application/ld+json">{"@context":"https://schema.org","@type":"Organization","name":"Thalir Innovations","url":"https://thalirone.com","logo":"https://thalirone.com/assets/img/icon-512.png","email":"hello@thalirone.com","contactPoint":[{"@type":"ContactPoint","telephone":"+91-95136-36657","contactType":"sales","areaServed":"IN"}],"address":{"@type":"PostalAddress","addressLocality":"Bengaluru","addressRegion":"Karnataka","addressCountry":"IN"},"areaServed":[{"@type":"State","name":"Karnataka"},{"@type":"State","name":"Tamil Nadu"},{"@type":"State","name":"Andhra Pradesh"},{"@type":"State","name":"Telangana"}],"sameAs":[]}</script>
 </head>
 <body>
 <a class="skip" href="#main">Skip to content</a>
@@ -47,13 +47,14 @@
         <dt>WhatsApp</dt><dd><a href="https://wa.me/919513636657?text=Hi%20Thalir%20Innovations!%20I%20have%20an%20enquiry." target="_blank" rel="noopener">+91 95136 36657</a></dd>
         <dt>Email</dt><dd><a href="mailto:hello@thalirone.com">hello@thalirone.com</a></dd>
         <dt>Hours</dt><dd>Mon–Sat, 10 am – 7 pm</dd>
+        <dt>We cover</dt><dd>Karnataka, Tamil Nadu, Andhra Pradesh, Telangana</dd>
         <dt>Based in</dt><dd>Bengaluru, Karnataka</dd>
       </dl>
     </div>
     <form class="composer" id="composer" data-wa="919513636657" novalidate>
   <div class="row">
     <label for="c-name">Your name<input id="c-name" name="name" autocomplete="name" required></label>
-    <label for="c-area">Area / city<input id="c-area" name="area" autocomplete="address-level2" placeholder="e.g. Whitefield, Bengaluru"></label>
+    <label for="c-area">Area / city<input id="c-area" name="area" autocomplete="address-level2" placeholder="e.g. Whitefield, Bengaluru or Coimbatore"></label>
   </div>
   <label for="c-topic">I'm interested in<select id="c-topic" name="topic"><option value="Smart Home &amp; Cinema">Smart Home &amp; Cinema</option><option value="Cinema Revival">Cinema Revival</option><option value="Business Software">Business Software</option><option value="Something else">Something else</option></select></label>
   <label for="c-msg">Tell us a little<textarea id="c-msg" name="msg" placeholder="e.g. 4-bedroom villa, new build, lights + AC + curtains"></textarea></label>
@@ -68,7 +69,7 @@
     <div class="cols">
       <div style="display:grid;gap:14px;align-content:start">
         <img src="/assets/img/logo.png" alt="Thalir Innovations" width="409" height="54" loading="lazy">
-        <p class="muted">Technology that grows with you. Bengaluru, India.</p>
+        <p class="muted">Technology that grows with you. Based in Bengaluru, serving Karnataka, Tamil Nadu, Andhra Pradesh and Telangana.</p>
       </div>
       <div><h3>What we do</h3><ul><li><a href="/smart-home-cinema/">Smart Home &amp; Cinema</a></li><li><a href="/cinema-revival/">Cinema Revival</a></li><li><a href="/business-software/">Business Software</a></li><li><a href="/contact/">Contact</a></li></ul></div>
       <div><h3>Talk to us</h3><ul>
@@ -81,6 +82,6 @@
     <div class="legal"><span>© 2026 Thalir Innovations · Bengaluru</span><a href="/privacy/">Privacy</a></div>
   </div>
 </footer>
-<script src="/assets/main.js?v=muf0lbub" defer></script>
+<script src="/assets/main.js?v=muf0wo4s" defer></script>
 </body>
 </html>

diff --git a/docs/privacy/index.html b/docs/privacy/index.html
@@ -20,8 +20,8 @@
 <link rel="preconnect" href="https://fonts.googleapis.com">
 <link rel="preconnect" href="https://fonts.gstatic.com" crossorigin>
 <link rel="stylesheet" href="https://fonts.googleapis.com/css2?family=Montserrat:wght@600;700;800&family=Nunito+Sans:opsz,wght@6..12,400;6..12,600;6..12,700&display=swap">
-<link rel="stylesheet" href="/assets/styles.css?v=muf0lbub">
-<script type="application/ld+json">{"@context":"https://schema.org","@type":"Organization","name":"Thalir Innovations","url":"https://thalirone.com","logo":"https://thalirone.com/assets/img/icon-512.png","email":"hello@thalirone.com","contactPoint":[{"@type":"ContactPoint","telephone":"+91-95136-36657","contactType":"sales","areaServed":"IN"}],"address":{"@type":"PostalAddress","addressLocality":"Bengaluru","addressRegion":"Karnataka","addressCountry":"IN"},"sameAs":[]}</script>
+<link rel="stylesheet" href="/assets/styles.css?v=muf0wo4s">
+<script type="application/ld+json">{"@context":"https://schema.org","@type":"Organization","name":"Thalir Innovations","url":"https://thalirone.com","logo":"https://thalirone.com/assets/img/icon-512.png","email":"hello@thalirone.com","contactPoint":[{"@type":"ContactPoint","telephone":"+91-95136-36657","contactType":"sales","areaServed":"IN"}],"address":{"@type":"PostalAddress","addressLocality":"Bengaluru","addressRegion":"Karnataka","addressCountry":"IN"},"areaServed":[{"@type":"State","name":"Karnataka"},{"@type":"State","name":"Tamil Nadu"},{"@type":"State","name":"Andhra Pradesh"},{"@type":"State","name":"Telangana"}],"sameAs":[]}</script>
 </head>
 <body>
 <a class="skip" href="#main">Skip to content</a>
@@ -54,7 +54,7 @@
     <div class="cols">
       <div style="display:grid;gap:14px;align-content:start">
         <img src="/assets/img/logo.png" alt="Thalir Innovations" width="409" height="54" loading="lazy">
-        <p class="muted">Technology that grows with you. Bengaluru, India.</p>
+        <p class="muted">Technology that grows with you. Based in Bengaluru, serving Karnataka, Tamil Nadu, Andhra Pradesh and Telangana.</p>
       </div>
       <div><h3>What we do</h3><ul><li><a href="/smart-home-cinema/">Smart Home &amp; Cinema</a></li><li><a href="/cinema-revival/">Cinema Revival</a></li><li><a href="/business-software/">Business Software</a></li><li><a href="/contact/">Contact</a></li></ul></div>
       <div><h3>Talk to us</h3><ul>
@@ -67,6 +67,6 @@
     <div class="legal"><span>© 2026 Thalir Innovations · Bengaluru</span><a href="/privacy/">Privacy</a></div>
   </div>
 </footer>
-<script src="/assets/main.js?v=muf0lbub" defer></script>
+<script src="/assets/main.js?v=muf0wo4s" defer></script>
 </body>
 </html>
